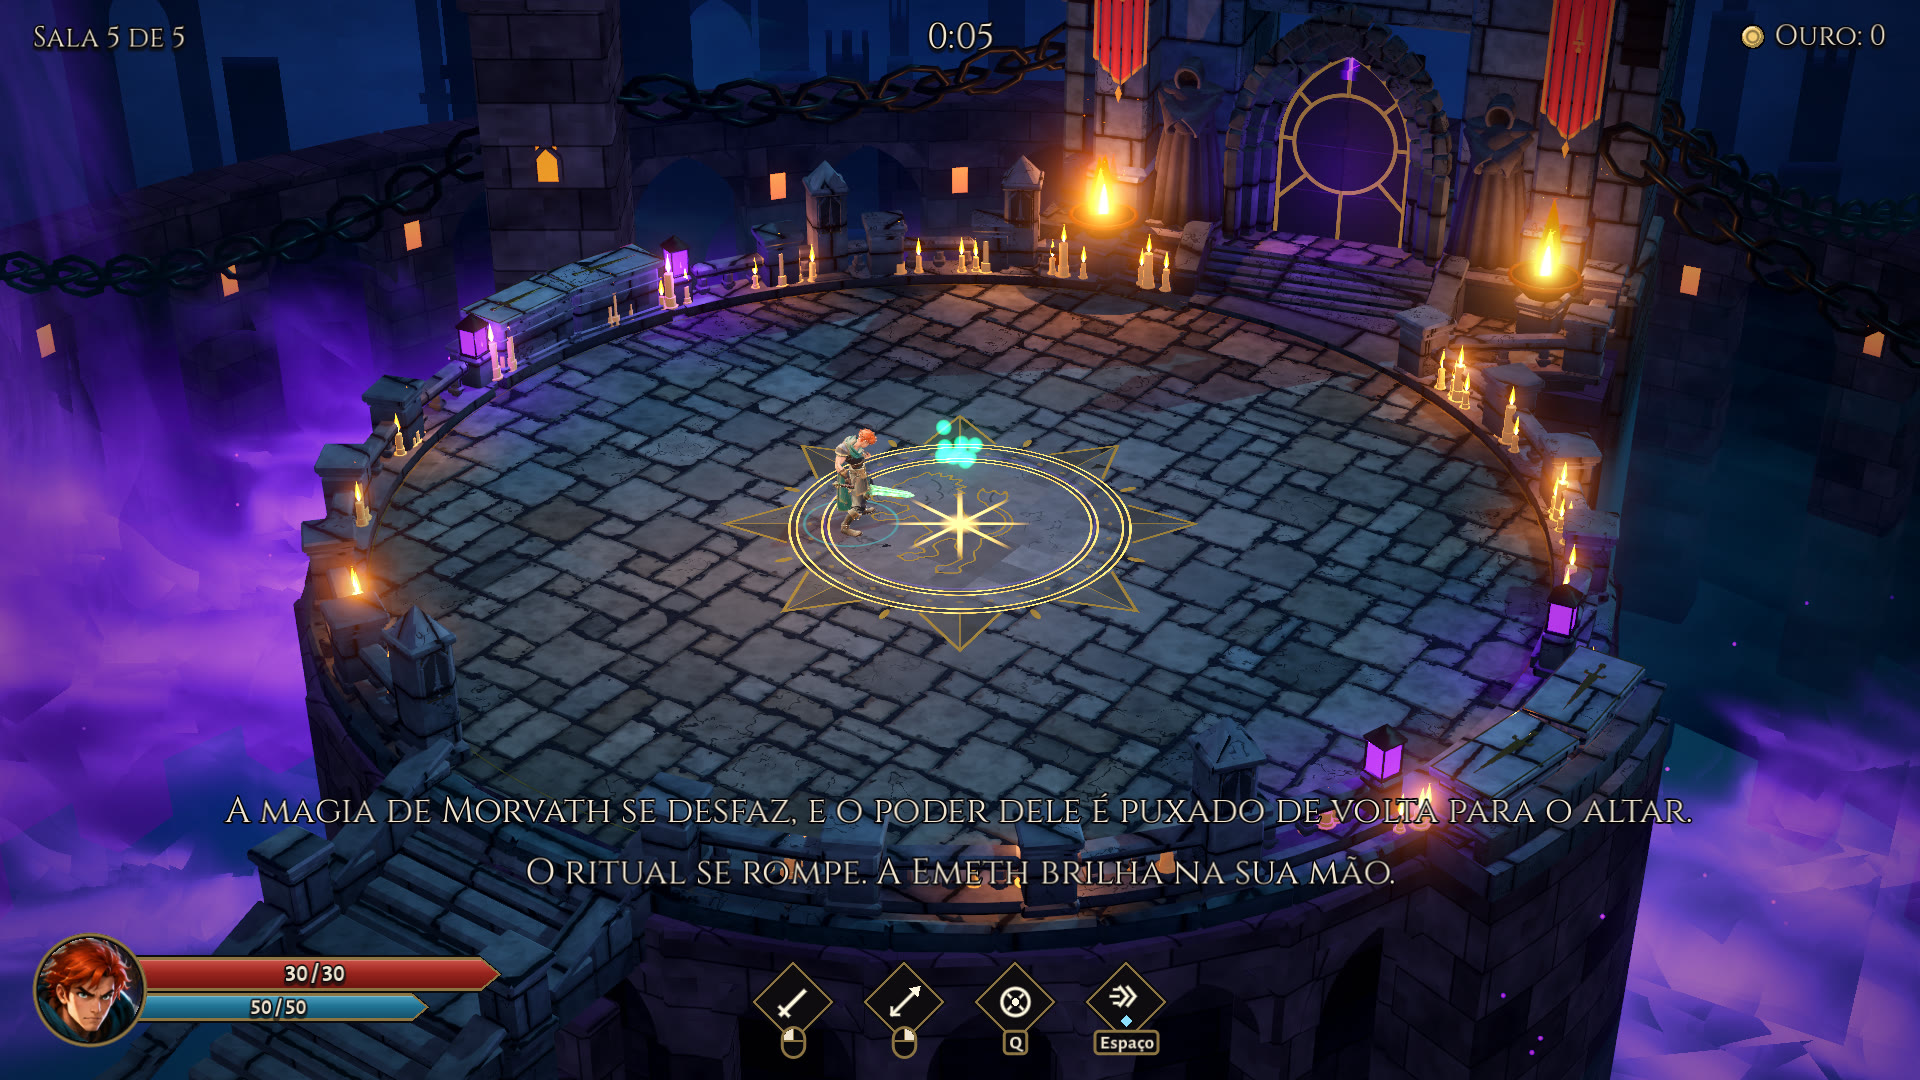
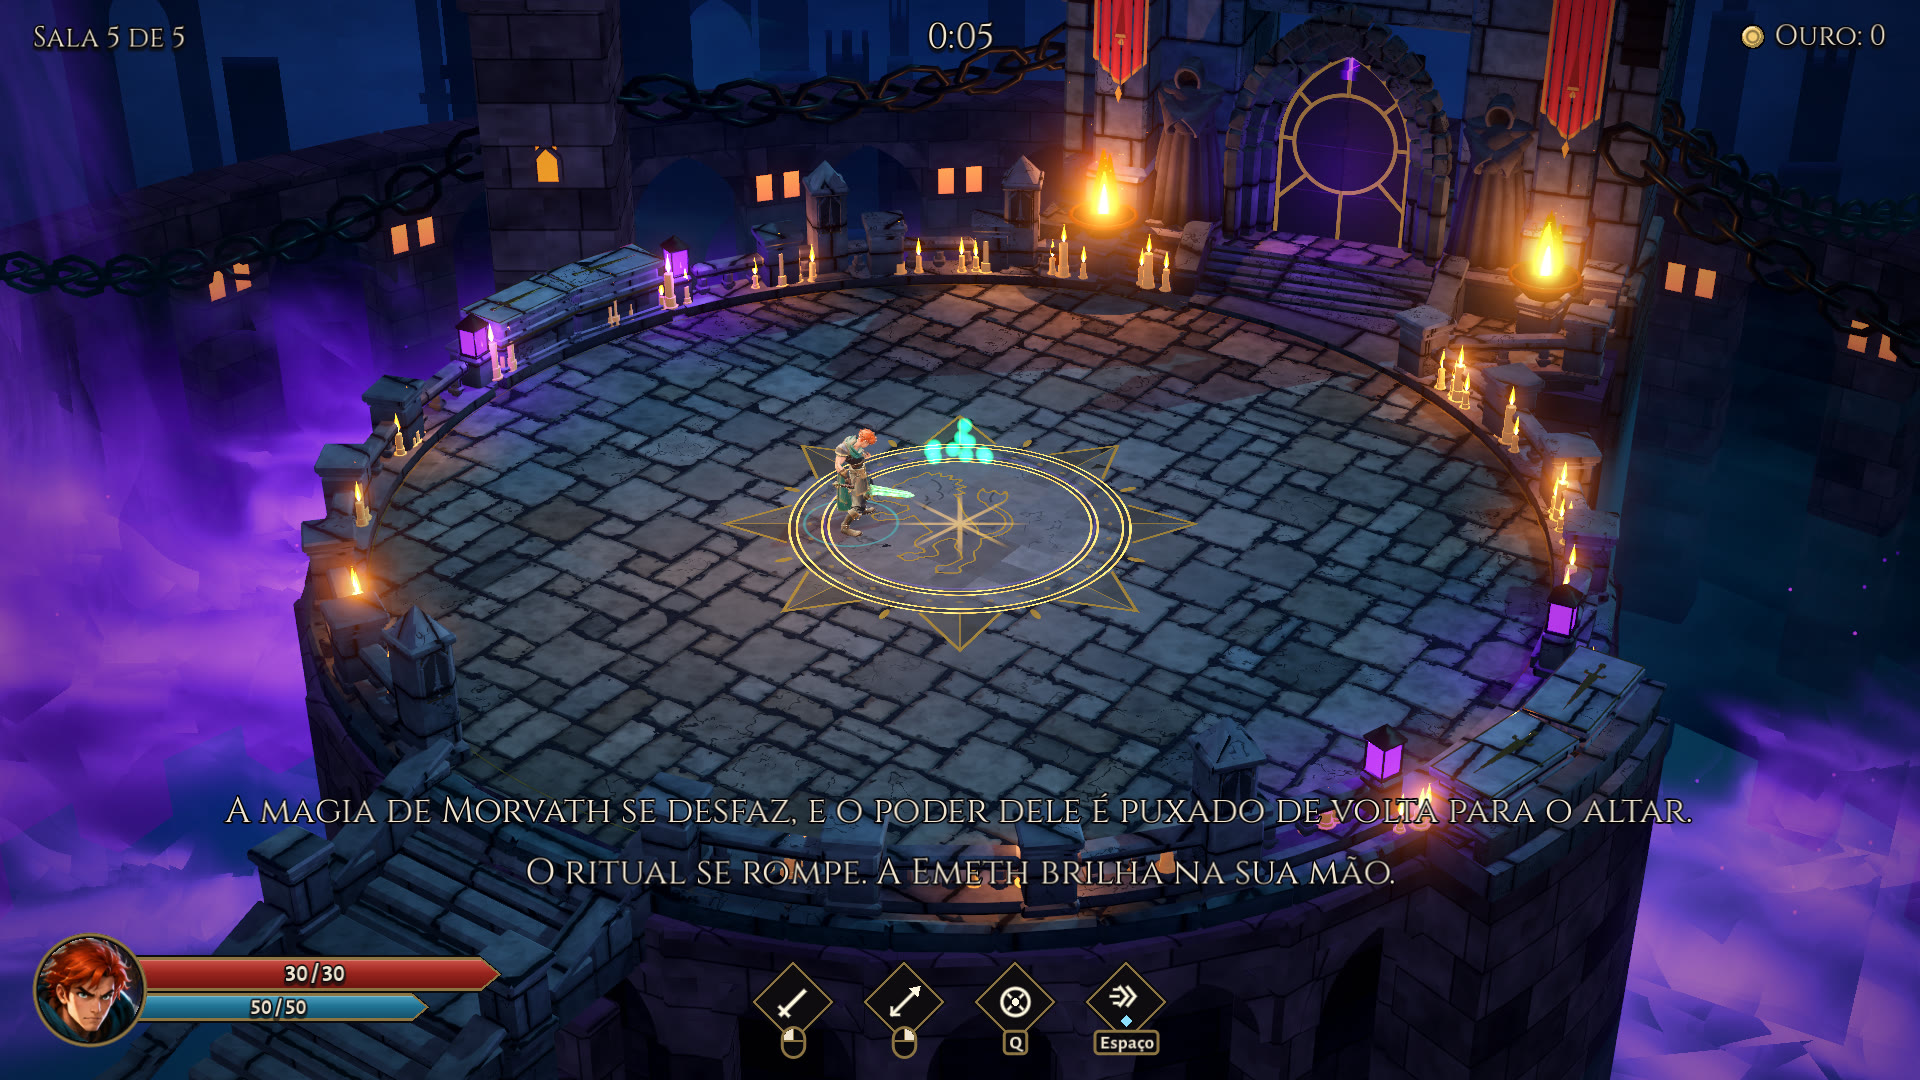
C12a chamber touch-ups: storm lanes no longer brighten the centre (faint fill, ramp from the root, light cap 0.95, the seal's heart dims while the lanes are down: centre luminance 121 to 86); candles open in the see-through around the hero (shared see_through.gdshaderinc, works in Compatibility); vi

diff --git a/docs/gallery/boss_arena/CAPTURAS.md b/docs/gallery/boss_arena/CAPTURAS.md
@@ -18,6 +18,21 @@ quadros inteiros (ou recortes, no `selo_estados`) com uma faixa de rótulo **aci
   `drawtext`, Alegreya Sans Bold). O texto "o que se vê" das tabelas é o das capturas anteriores: o enquadramento e o
   momento são os mesmos; mudaram o chão (mais claro), o céu (azul), as janelinhas do anel distante, as faixas da
   tempestade (cada uma na sua cunha, nada a 1,2 m de Morvath) e o miolo vermelho das erupções.
+- **Refeitas em 2026-11-16 pelo C12a (BOSS-001, BOSS-002, BOSS-003, QW-006, QW-007, QW-008)**, sobre o `fe75462` com as
+  mudanças ainda sem commit, espelho próprio `C:/Users/danie/tools/eterra-gpu-c12a` (apagado ao fim), os mesmos comandos
+  abaixo: `01`, `03`, `09`, `10`, `borda_e_camera` (os cinco quadros) e a metade direita de `lado_a_lado_referencia` (a
+  esquerda, a pintura, recortada da montagem anterior). PNG da Godot para JPG pelo ffmpeg (`-q:v 3`); a `borda_e_camera`
+  com `scale=1440:810`, `pad` e `drawtext` (Alegreya Sans Bold). As outras capturas da pasta continuam as da rodada
+  anterior (as variantes `03b`, `04`, `09b`, `10a`, `10b` e `selo_estados` não mostram ainda o fio violeta separado, as faixas
+  mais leves nem a estrela mais fraca). Medidas (luminância Rec. 601, média do recorte):
+  - `09`: recorte do centro (860, 470, 200 x 120) com luminância **85,8** (antes 121 pela medida do Game Director, 123 pela
+    minha no JPG antigo), 1,8% acima de 200 (os pontos de ordem); meio de uma faixa (1250, 640, 30 x 20) **69,7**, com as
+    juntas do chão visíveis; aro da faixa mais clara abaixo de 1,0 (0,95 de vermelho somado).
+  - `10`: recorte 60 x 60 no centro do selo (938, 500): **0,0%** dos pixels com luminância acima de 200 (antes 24,1%),
+    máximo 196; 10,8% têm algum canal acima de 200 (o vermelho e o verde do ouro aceso).
+  - `01`: 13 janelinhas visíveis (seis pares nos pilares do anel distante e a da torre), todas sobre a parede; nenhuma na
+    bruma oeste (antes 8, duas flutuando).
+  - `borda_e_camera`, quadro (8.5, 8.5): as velas da frente abrem em pontilhado em volta do herói; pernas inteiras.
 - **Antes**: `2de07b0` (fim do ciclo 9, salão retangular), extraído com `git archive 2de07b0 | tar -x -C
   /home/dani/games/qa1011-before`, espelho `C:/Users/danie/tools/eterra-gpu-qa1011b`. A queimadura também foi tirada no
   `196f33c` (fim do C10), espelho `eterra-gpu-qa1011c`. Cópias e espelhos apagados ao fim.

diff --git a/CLAUDE.md b/CLAUDE.md
@@ -291,7 +291,15 @@ worktree). Tarefa pequena o Game Director faz direto. Protocolo completo: `docs/
   tempo em que cada morto se ergue e a coluna dela é a única do erguer; cancelada (`clear_warnings`, `end_zone`) some sem
   coluna. Fase 4: portal inquieto (`Arena.final_phase`, `PortalOmen`, `unrest` no `portal.gdshader`, partículas no ar).
   Vitória: selagem do portal (`Arena.seal_portal`, 2,4 s, `Boss.VICTORY_SEAL`, terminando em `VICTORY_CALM`, antes da tela).
-  Obeliscos abrem em pontilhado em volta do herói atrás deles (`see_through` no `masonry.gdshader`). HUD (ciclo 9): na barra
+  Obeliscos abrem em pontilhado em volta do herói atrás deles (`see_through` no `masonry.gdshader`, código comum em
+  `see_through.gdshaderinc`; C12a: as velas da frente da Câmara do Selo também, `Masonry.candle(..., open)`, `see_open`,
+  `candle_wax_see.gdshader`, `flame_see.gdshader`). C12a na câmara: faixas da tempestade translúcidas (`GroundLook.STORM_*`:
+  preenchimento 0,09, aro a 0,75 abaixo de 1, nada perto da raiz até 5 m, `root_rim`, `light_cap`) e o miolo do selo
+  escurece enquanto elas estão no chão (`BossChamber.STORM_DARK`); fio violeta dos avisos separado do aro por 2 px
+  (`thread_gap_px`); estrela da vitória abaixo do limiar (`seal_converge_light`, `seal_heart_light`); janelinhas em pares
+  e nenhuma na bruma oeste (`FAR_WINDOW_PAIR`, `FAR_WINDOW_HIDDEN`); tampa e friso dos sarcófagos mais claros
+  (`SARC_LID_LIGHT`, `SARC_FRIEZE`); espada dos estandartes no meio do pano com borda escura (`ArenaKit.BANNER_SWORD_*`);
+  névoa volumétrica e SSR só ligadas no Forward+ (`_build_world`; sem aviso no log do Compatibility). HUD (ciclo 9): na barra
   (`HudBar.show_boss`) as marcas de fase ficam escuras à frente da vida e viram ouro velho com losango quando passadas, a
   recém-atingida pisca (`MARK_FLASH`); o nome da fase aparece por 3 s embaixo da barra (`Hud.show_phase`: o `show_notice` da
   fase vai para lá, nome até o primeiro ponto, dica embaixo); escudo do ritual = moldura na cor dele, véu fino e faixas
